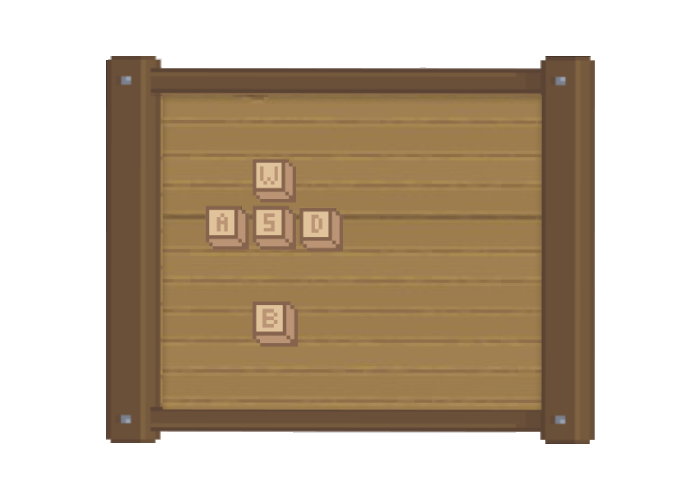
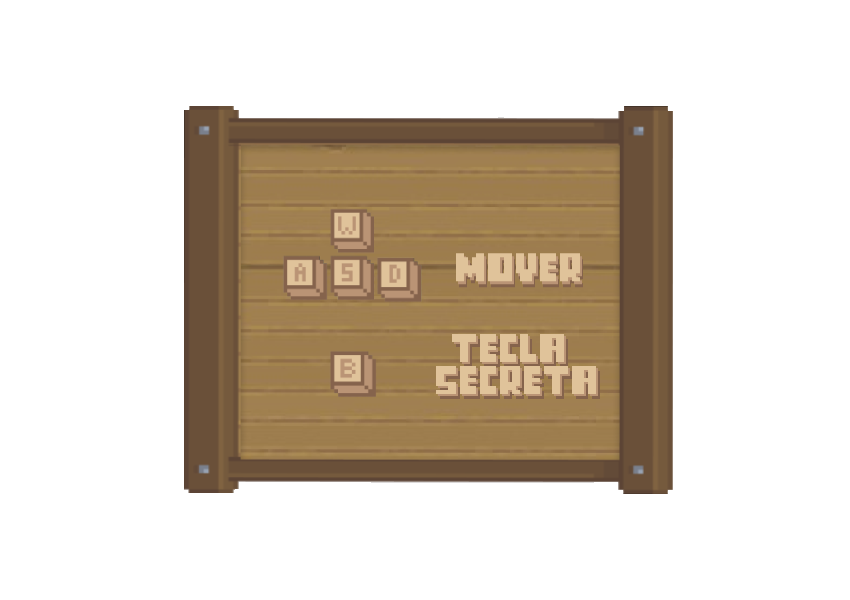
Add files via upload

diff --git a/telas.py b/telas.py
@@ -4,17 +4,15 @@ import pygame as pg
 class Tela(pg.sprite.Sprite):
     def __init__(self):
         super().__init__()
-        self.imagem1 = pg.image.load("background.png")
+        self.imagem1 = pg.image.load("bg1.png")
         self.imagem2 = pg.image.load("over.png")
-        self.imagem3 = pg.image.load("background.png") #atualizar fundo do nível dois
-        self.imagem4 = pg.image.load("vitoria.png") #tirar foto pois está com bug e atualizar no código
-        self.imagem5 = pg.image.load("Tutorial.png")
+        self.imagem3 = pg.image.load("bg2.png")
+        self.imagem4 = pg.image.load("Tutorial.png")
 
         self.imagem1 = pg.transform.scale(self.imagem1, (850, 600))
         self.imagem2 = pg.transform.scale(self.imagem2, (850, 600))
         self.imagem3 = pg.transform.scale(self.imagem3, (850, 600))
         self.imagem4 = pg.transform.scale(self.imagem4, (850, 600))
-        self.imagem5 = pg.transform.scale(self.imagem5, (850, 600))
         self.image = self.imagem1
 
         self.x = 0

diff --git a/Main1.py b/Main1.py
@@ -72,7 +72,7 @@ def teclaSecreta():
 
 def instrucoes():
     global click
-    tela.image = tela.imagem5
+    tela.image = tela.imagem4
     tela_group.draw(tela_jogo)
 
     font = pg.font.Font('visitor2.ttf', 32)
@@ -107,8 +107,6 @@ def vitoria():
         galinha.kill()
         carros_group.empty()
 
-        #tela.image = tela.imagem4
-
         font = pg.font.Font('visitor2.ttf', 32)
         mx, my = pg.mouse.get_pos()  # checar posições do mouse
 
@@ -130,7 +128,12 @@ def vitoria():
                 if event.button == 1:
                     click = True
 
-        #escrever texto de vitória #############################
+        v = pg.Rect(250, 265, 350, 70)  # botões
+        pg.draw.rect(tela_jogo, (255, 255, 255), v)
+
+        font = pg.font.Font('visitor2.ttf', 100)
+        escrever('Vitória', font, (110, 110, 110), tela_jogo, 425, 300)
+
         pg.display.update()
 
 LARGURA = 600

diff --git a/galinha.py b/galinha.py
@@ -9,7 +9,6 @@ class Galinha(pg.sprite.Sprite):
         self.width = 60
         self.height = 60
 
-        # Imagem do ser de asas bicudo aqui #
         self.right = pg.image.load("DW1.png")
         self.left = pg.image.load("EW1.png")
         self.cococo = pg.image.load("DI1.png")

diff --git a/carros.py b/carros.py
@@ -2,7 +2,6 @@ import pygame as pg
 
 # imagens de carros no metodo pg.image.load("carroNovo.png")
 
-
 class Carro(pg.sprite.Sprite):
     def __init__(self, quantidade, nivel):
         super().__init__()
